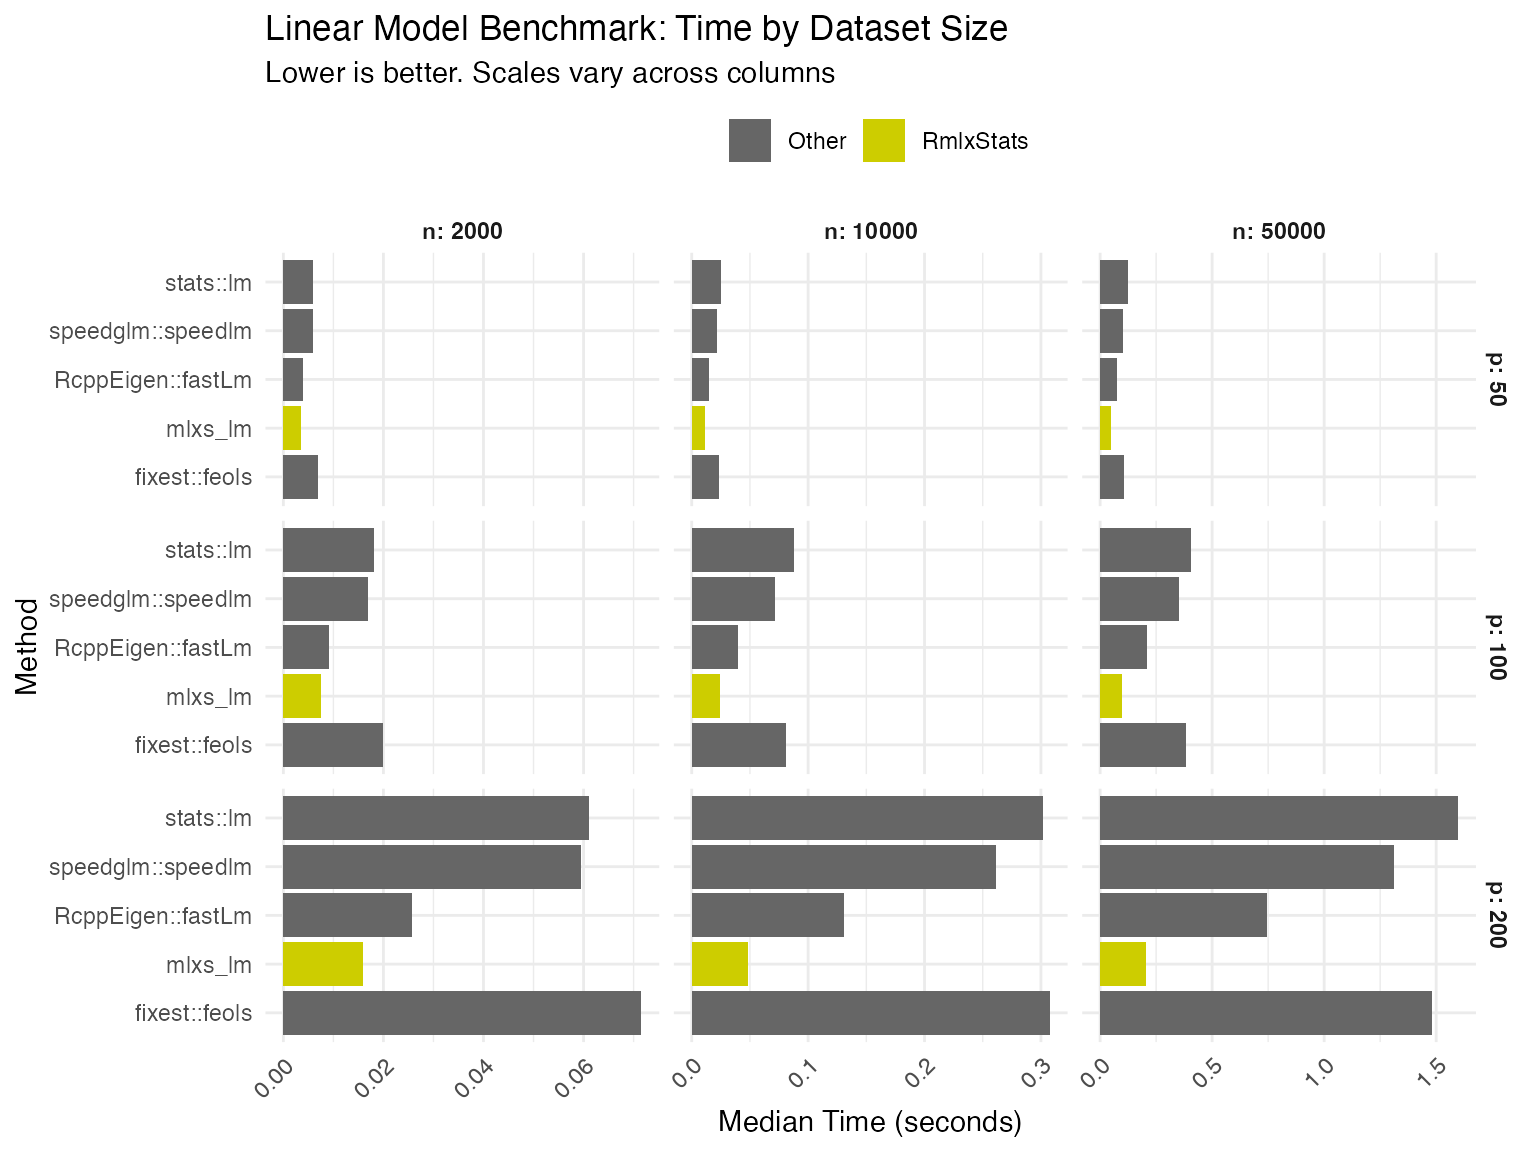
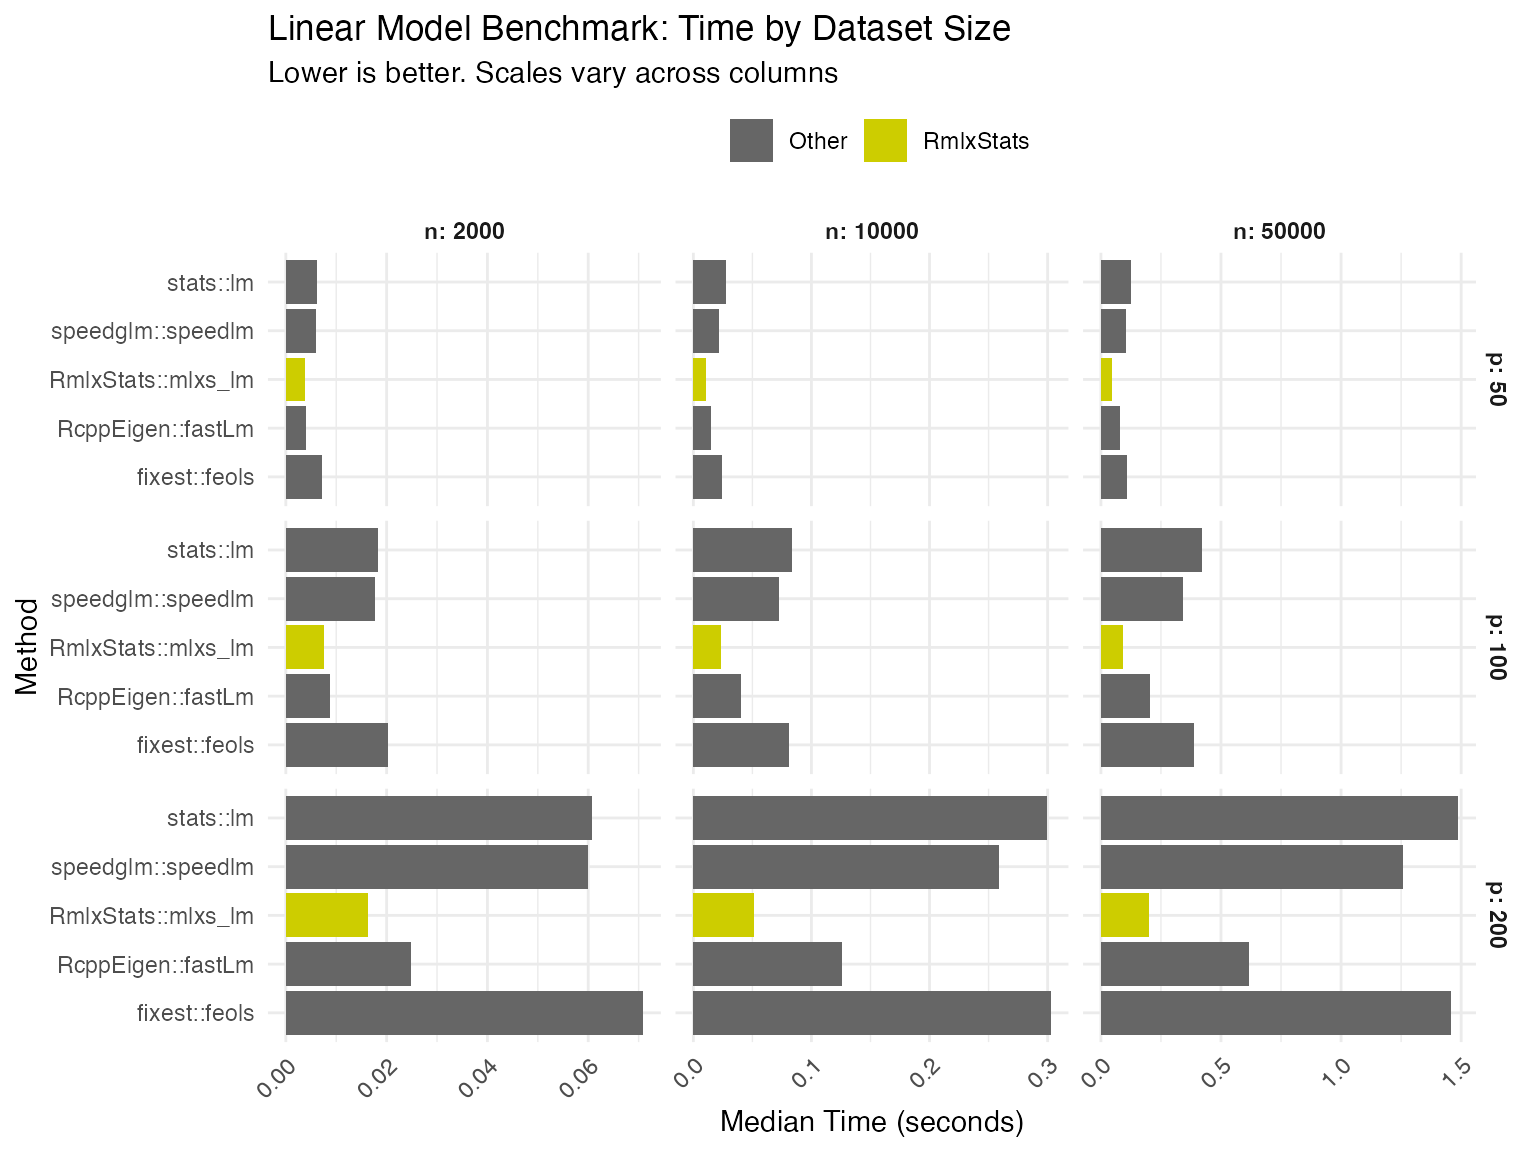
Built site for RmlxStats@0.1.0:

diff --git a/articles/benchmarks.html b/articles/benchmarks.html
@@ -124,7 +124,7 @@ predictors (<code>p</code>).</p>
 <span></span>
 <span>  <span class="va">bm</span> <span class="op">&lt;-</span> <span class="fu">mark</span><span class="op">(</span></span>
 <span>    <span class="st">"stats::lm"</span> <span class="op">=</span> <span class="fu"><a href="https://rdrr.io/r/stats/lm.html" class="external-link">lm</a></span><span class="op">(</span><span class="va">lm_formula</span>, data <span class="op">=</span> <span class="va">subset_data</span><span class="op">)</span>,</span>
-<span>    mlxs_lm <span class="op">=</span> <span class="op">{</span></span>
+<span>    <span class="st">"RmlxStats::mlxs_lm"</span> <span class="op">=</span> <span class="op">{</span></span>
 <span>      <span class="va">l</span> <span class="op">&lt;-</span> <span class="fu"><a href="../reference/mlxs_lm.html">mlxs_lm</a></span><span class="op">(</span><span class="va">lm_formula</span>, data <span class="op">=</span> <span class="va">subset_data</span><span class="op">)</span></span>
 <span>      <span class="fu">Rmlx</span><span class="fu">::</span><span class="fu"><a href="https://hughjonesd.github.io/Rmlx/reference/mlx_eval.html" class="external-link">mlx_eval</a></span><span class="op">(</span><span class="va">l</span><span class="op">$</span><span class="va">coefficients</span><span class="op">)</span></span>
 <span>    <span class="op">}</span>,</span>
@@ -162,7 +162,7 @@ predictors (<code>p</code>).</p>
 <span>    <span class="st">"stats::glm"</span> <span class="op">=</span> <span class="fu"><a href="https://rdrr.io/r/stats/glm.html" class="external-link">glm</a></span><span class="op">(</span><span class="va">glm_formula</span>, family <span class="op">=</span> <span class="fu"><a href="https://rdrr.io/r/stats/family.html" class="external-link">binomial</a></span><span class="op">(</span><span class="op">)</span>,</span>
 <span>                             data <span class="op">=</span> <span class="va">subset_data</span>,</span>
 <span>                             control <span class="op">=</span> <span class="fu"><a href="https://rdrr.io/r/base/list.html" class="external-link">list</a></span><span class="op">(</span>maxit <span class="op">=</span> <span class="fl">50</span><span class="op">)</span><span class="op">)</span>,</span>
-<span>    mlxs_glm <span class="op">=</span> <span class="op">{</span></span>
+<span>    <span class="st">"RmlxStats::mlxs_glm"</span> <span class="op">=</span> <span class="op">{</span></span>
 <span>      <span class="va">g</span> <span class="op">&lt;-</span> <span class="fu"><a href="../reference/mlxs_glm.html">mlxs_glm</a></span><span class="op">(</span><span class="va">glm_formula</span>, family <span class="op">=</span> <span class="fu"><a href="../reference/mlxs_binomial.html">mlxs_binomial</a></span><span class="op">(</span><span class="op">)</span>,</span>
 <span>                        data <span class="op">=</span> <span class="va">subset_data</span>,</span>
 <span>                        control <span class="op">=</span> <span class="fu"><a href="https://rdrr.io/r/base/list.html" class="external-link">list</a></span><span class="op">(</span>maxit <span class="op">=</span> <span class="fl">50</span>, epsilon <span class="op">=</span> <span class="fl">1e-6</span><span class="op">)</span><span class="op">)</span></span>
@@ -254,159 +254,141 @@ due to computational cost.</p>
 <p>We compare RmlxStats functions both against base R, and against the
 fastest alternative tested. Numbers show
 <code>RmlxStats time/alternative time</code>.</p>
-<table class="table">
-<caption>RmlxStats time vs Base R (%). Below 100% → RmlxStats is
-faster</caption>
-<colgroup>
-<col width="14%">
-<col width="8%">
-<col width="9%">
-<col width="9%">
-<col width="9%">
-<col width="10%">
-<col width="10%">
-<col width="9%">
-<col width="10%">
-<col width="10%">
-</colgroup>
-<thead><tr class="header">
-<th align="left"></th>
-<th align="right">n=2000, p=50</th>
-<th align="right">n=10000, p=50</th>
-<th align="right">n=50000, p=50</th>
-<th align="right">n=2000, p=100</th>
-<th align="right">n=10000, p=100</th>
-<th align="right">n=50000, p=100</th>
-<th align="right">n=2000, p=200</th>
-<th align="right">n=10000, p=200</th>
-<th align="right">n=50000, p=200</th>
+<table class="table huxtable" data-quarto-disable-processing="true" style="margin-left: auto; margin-right: auto;" id="tab:summary-tables">
+<caption style="caption-side: top; text-align: center;">RmlxStats time vs base R (%). Below 100% → RmlxStats is faster</caption>
+<col>
+<col>
+<col>
+<col>
+<col>
+<col>
+<col>
+<col>
+<col>
+<thead><tr>
+<th class="huxtable-cell huxtable-header" style="text-align: right;  border-style: solid solid solid solid; border-width: 0pt 0pt 0pt 0pt;         font-size: 11pt;">n=2000, p=50</th>
+<th class="huxtable-cell huxtable-header" style="text-align: right;  border-style: solid solid solid solid; border-width: 0pt 0pt 0pt 0pt;         font-size: 11pt;">n=10000, p=50</th>
+<th class="huxtable-cell huxtable-header" style="text-align: right;  border-style: solid solid solid solid; border-width: 0pt 0pt 0pt 0pt;         font-size: 11pt;">n=50000, p=50</th>
+<th class="huxtable-cell huxtable-header" style="text-align: right;  border-style: solid solid solid solid; border-width: 0pt 0pt 0pt 0pt;         font-size: 11pt;">n=2000, p=100</th>
+<th class="huxtable-cell huxtable-header" style="text-align: right;  border-style: solid solid solid solid; border-width: 0pt 0pt 0pt 0pt;         font-size: 11pt;">n=10000, p=100</th>
+<th class="huxtable-cell huxtable-header" style="text-align: right;  border-style: solid solid solid solid; border-width: 0pt 0pt 0pt 0pt;         font-size: 11pt;">n=50000, p=100</th>
+<th class="huxtable-cell huxtable-header" style="text-align: right;  border-style: solid solid solid solid; border-width: 0pt 0pt 0pt 0pt;         font-size: 11pt;">n=2000, p=200</th>
+<th class="huxtable-cell huxtable-header" style="text-align: right;  border-style: solid solid solid solid; border-width: 0pt 0pt 0pt 0pt;         font-size: 11pt;">n=10000, p=200</th>
+<th class="huxtable-cell huxtable-header" style="text-align: right;  border-style: solid solid solid solid; border-width: 0pt 0pt 0pt 0pt;         font-size: 11pt;">n=50000, p=200</th>
 </tr></thead>
 <tbody>
-<tr class="odd">
-<td align="left">Linear Model</td>
-<td align="right">59.8</td>
-<td align="right">45.0</td>
-<td align="right">37.3</td>
-<td align="right">41.1</td>
-<td align="right">27.3</td>
-<td align="right">24.3</td>
-<td align="right">26.0</td>
-<td align="right">15.9</td>
-<td align="right">12.8</td>
+<tr>
+<td class="huxtable-cell" style="text-align: right;  border-style: solid solid solid solid; border-width: 0pt 0pt 0pt 0pt;         font-size: 11pt;">61.2</td>
+<td class="huxtable-cell" style="text-align: right;  border-style: solid solid solid solid; border-width: 0pt 0pt 0pt 0pt;         font-size: 11pt;">39.5</td>
+<td class="huxtable-cell" style="text-align: right;  border-style: solid solid solid solid; border-width: 0pt 0pt 0pt 0pt;         font-size: 11pt;">37.3</td>
+<td class="huxtable-cell" style="text-align: right;  border-style: solid solid solid solid; border-width: 0pt 0pt 0pt 0pt;         font-size: 11pt;">41.1</td>
+<td class="huxtable-cell" style="text-align: right;  border-style: solid solid solid solid; border-width: 0pt 0pt 0pt 0pt;         font-size: 11pt;">27.8</td>
+<td class="huxtable-cell" style="text-align: right;  border-style: solid solid solid solid; border-width: 0pt 0pt 0pt 0pt;         font-size: 11pt;">22.0</td>
+<td class="huxtable-cell" style="text-align: right;  border-style: solid solid solid solid; border-width: 0pt 0pt 0pt 0pt;         font-size: 11pt;">26.8</td>
+<td class="huxtable-cell" style="text-align: right;  border-style: solid solid solid solid; border-width: 0pt 0pt 0pt 0pt;         font-size: 11pt;">17.1</td>
+<td class="huxtable-cell" style="text-align: right;  border-style: solid solid solid solid; border-width: 0pt 0pt 0pt 0pt;         font-size: 11pt;">13.6</td>
 </tr>
-<tr class="even">
-<td align="left">Logistic Regression</td>
-<td align="right">92.0</td>
-<td align="right">39.4</td>
-<td align="right">24.9</td>
-<td align="right">41.2</td>
-<td align="right">19.5</td>
-<td align="right">12.8</td>
-<td align="right">18.8</td>
-<td align="right">12.1</td>
-<td align="right">10.1</td>
+<tr>
+<td class="huxtable-cell" style="text-align: right;  border-style: solid solid solid solid; border-width: 0pt 0pt 0pt 0pt;         font-size: 11pt;">90.0</td>
+<td class="huxtable-cell" style="text-align: right;  border-style: solid solid solid solid; border-width: 0pt 0pt 0pt 0pt;         font-size: 11pt;">35.2</td>
+<td class="huxtable-cell" style="text-align: right;  border-style: solid solid solid solid; border-width: 0pt 0pt 0pt 0pt;         font-size: 11pt;">23.0</td>
+<td class="huxtable-cell" style="text-align: right;  border-style: solid solid solid solid; border-width: 0pt 0pt 0pt 0pt;         font-size: 11pt;">40.9</td>
+<td class="huxtable-cell" style="text-align: right;  border-style: solid solid solid solid; border-width: 0pt 0pt 0pt 0pt;         font-size: 11pt;">20.6</td>
+<td class="huxtable-cell" style="text-align: right;  border-style: solid solid solid solid; border-width: 0pt 0pt 0pt 0pt;         font-size: 11pt;">13.8</td>
+<td class="huxtable-cell" style="text-align: right;  border-style: solid solid solid solid; border-width: 0pt 0pt 0pt 0pt;         font-size: 11pt;">19.5</td>
+<td class="huxtable-cell" style="text-align: right;  border-style: solid solid solid solid; border-width: 0pt 0pt 0pt 0pt;         font-size: 11pt;">12.0</td>
+<td class="huxtable-cell" style="text-align: right;  border-style: solid solid solid solid; border-width: 0pt 0pt 0pt 0pt;         font-size: 11pt;">9.5</td>
 </tr>
-<tr class="odd">
-<td align="left">Bootstrap (Case)</td>
-<td align="right">26.3</td>
-<td align="right">21.8</td>
-<td align="right"></td>
-<td align="right">19.4</td>
-<td align="right">16.3</td>
-<td align="right"></td>
-<td align="right"></td>
-<td align="right"></td>
-<td align="right"></td>
+<tr>
+<td class="huxtable-cell" style="text-align: right;  border-style: solid solid solid solid; border-width: 0pt 0pt 0pt 0pt;         font-size: 11pt;">26.1</td>
+<td class="huxtable-cell" style="text-align: right;  border-style: solid solid solid solid; border-width: 0pt 0pt 0pt 0pt;         font-size: 11pt;">21.8</td>
+<td class="huxtable-cell" style="text-align: right;  border-style: solid solid solid solid; border-width: 0pt 0pt 0pt 0pt;         font-size: 11pt;">  </td>
+<td class="huxtable-cell" style="text-align: right;  border-style: solid solid solid solid; border-width: 0pt 0pt 0pt 0pt;         font-size: 11pt;">19.5</td>
+<td class="huxtable-cell" style="text-align: right;  border-style: solid solid solid solid; border-width: 0pt 0pt 0pt 0pt;         font-size: 11pt;">16.8</td>
+<td class="huxtable-cell" style="text-align: right;  border-style: solid solid solid solid; border-width: 0pt 0pt 0pt 0pt;         font-size: 11pt;">  </td>
+<td class="huxtable-cell" style="text-align: right;  border-style: solid solid solid solid; border-width: 0pt 0pt 0pt 0pt;         font-size: 11pt;">  </td>
+<td class="huxtable-cell" style="text-align: right;  border-style: solid solid solid solid; border-width: 0pt 0pt 0pt 0pt;         font-size: 11pt;">  </td>
+<td class="huxtable-cell" style="text-align: right;  border-style: solid solid solid solid; border-width: 0pt 0pt 0pt 0pt;         font-size: 11pt;">  </td>
 </tr>
-<tr class="even">
-<td align="left">Bootstrap (Residual)</td>
-<td align="right">78.0</td>
-<td align="right">41.1</td>
-<td align="right"></td>
-<td align="right">28.0</td>
-<td align="right">15.9</td>
-<td align="right"></td>
-<td align="right"></td>
-<td align="right"></td>
-<td align="right"></td>
+<tr>
+<td class="huxtable-cell" style="text-align: right;  border-style: solid solid solid solid; border-width: 0pt 0pt 0pt 0pt;         font-size: 11pt;">77.2</td>
+<td class="huxtable-cell" style="text-align: right;  border-style: solid solid solid solid; border-width: 0pt 0pt 0pt 0pt;         font-size: 11pt;">46.3</td>
+<td class="huxtable-cell" style="text-align: right;  border-style: solid solid solid solid; border-width: 0pt 0pt 0pt 0pt;         font-size: 11pt;">  </td>
+<td class="huxtable-cell" style="text-align: right;  border-style: solid solid solid solid; border-width: 0pt 0pt 0pt 0pt;         font-size: 11pt;">28.7</td>
+<td class="huxtable-cell" style="text-align: right;  border-style: solid solid solid solid; border-width: 0pt 0pt 0pt 0pt;         font-size: 11pt;">17.0</td>
+<td class="huxtable-cell" style="text-align: right;  border-style: solid solid solid solid; border-width: 0pt 0pt 0pt 0pt;         font-size: 11pt;">  </td>
+<td class="huxtable-cell" style="text-align: right;  border-style: solid solid solid solid; border-width: 0pt 0pt 0pt 0pt;         font-size: 11pt;">  </td>
+<td class="huxtable-cell" style="text-align: right;  border-style: solid solid solid solid; border-width: 0pt 0pt 0pt 0pt;         font-size: 11pt;">  </td>
+<td class="huxtable-cell" style="text-align: right;  border-style: solid solid solid solid; border-width: 0pt 0pt 0pt 0pt;         font-size: 11pt;">  </td>
 </tr>
 </tbody>
 </table>
-<table class="table">
-<caption>RmlxStats time vs Fastest Alternative (%). Below 100% →
-RmlxStats is faster</caption>
-<colgroup>
-<col width="14%">
-<col width="8%">
-<col width="9%">
-<col width="9%">
-<col width="9%">
-<col width="10%">
-<col width="10%">
-<col width="9%">
-<col width="10%">
-<col width="10%">
-</colgroup>
-<thead><tr class="header">
-<th align="left"></th>
-<th align="right">n=2000, p=50</th>
-<th align="right">n=10000, p=50</th>
-<th align="right">n=50000, p=50</th>
-<th align="right">n=2000, p=100</th>
-<th align="right">n=10000, p=100</th>
-<th align="right">n=50000, p=100</th>
-<th align="right">n=2000, p=200</th>
-<th align="right">n=10000, p=200</th>
-<th align="right">n=50000, p=200</th>
+<table class="table huxtable" data-quarto-disable-processing="true" style="margin-left: auto; margin-right: auto;" id="tab:summary-tables">
+<caption style="caption-side: top; text-align: center;">RmlxStats time vs fastest alternative (%). Below 100% → RmlxStats is faster</caption>
+<col>
+<col>
+<col>
+<col>
+<col>
+<col>
+<col>
+<col>
+<col>
+<thead><tr>
+<th class="huxtable-cell huxtable-header" style="text-align: right;  border-style: solid solid solid solid; border-width: 0pt 0pt 0pt 0pt;         font-size: 11pt;">n=2000, p=50</th>
+<th class="huxtable-cell huxtable-header" style="text-align: right;  border-style: solid solid solid solid; border-width: 0pt 0pt 0pt 0pt;         font-size: 11pt;">n=10000, p=50</th>
+<th class="huxtable-cell huxtable-header" style="text-align: right;  border-style: solid solid solid solid; border-width: 0pt 0pt 0pt 0pt;         font-size: 11pt;">n=50000, p=50</th>
+<th class="huxtable-cell huxtable-header" style="text-align: right;  border-style: solid solid solid solid; border-width: 0pt 0pt 0pt 0pt;         font-size: 11pt;">n=2000, p=100</th>
+<th class="huxtable-cell huxtable-header" style="text-align: right;  border-style: solid solid solid solid; border-width: 0pt 0pt 0pt 0pt;         font-size: 11pt;">n=10000, p=100</th>
+<th class="huxtable-cell huxtable-header" style="text-align: right;  border-style: solid solid solid solid; border-width: 0pt 0pt 0pt 0pt;         font-size: 11pt;">n=50000, p=100</th>
+<th class="huxtable-cell huxtable-header" style="text-align: right;  border-style: solid solid solid solid; border-width: 0pt 0pt 0pt 0pt;         font-size: 11pt;">n=2000, p=200</th>
+<th class="huxtable-cell huxtable-header" style="text-align: right;  border-style: solid solid solid solid; border-width: 0pt 0pt 0pt 0pt;         font-size: 11pt;">n=10000, p=200</th>
+<th class="huxtable-cell huxtable-header" style="text-align: right;  border-style: solid solid solid solid; border-width: 0pt 0pt 0pt 0pt;         font-size: 11pt;">n=50000, p=200</th>
 </tr></thead>
 <tbody>
-<tr class="odd">
-<td align="left">Linear Model</td>
-<td align="right">92.0</td>
-<td align="right">76.3</td>
-<td align="right">61.6</td>
-<td align="right">82.6</td>
-<td align="right">59.9</td>
-<td align="right">47.5</td>
-<td align="right">61.8</td>
-<td align="right">36.7</td>
-<td align="right">27.5</td>
+<tr>
+<td class="huxtable-cell" style="text-align: right;  border-style: solid solid solid solid; border-width: 0pt 0pt 0pt 0pt;         font-size: 11pt;">95.1</td>
+<td class="huxtable-cell" style="text-align: right;  border-style: solid solid solid solid; border-width: 0pt 0pt 0pt 0pt;         font-size: 11pt;">73.3</td>
+<td class="huxtable-cell" style="text-align: right;  border-style: solid solid solid solid; border-width: 0pt 0pt 0pt 0pt;         font-size: 11pt;">59.2</td>
+<td class="huxtable-cell" style="text-align: right;  border-style: solid solid solid solid; border-width: 0pt 0pt 0pt 0pt;         font-size: 11pt;">86.2</td>
+<td class="huxtable-cell" style="text-align: right;  border-style: solid solid solid solid; border-width: 0pt 0pt 0pt 0pt;         font-size: 11pt;">57.7</td>
+<td class="huxtable-cell" style="text-align: right;  border-style: solid solid solid solid; border-width: 0pt 0pt 0pt 0pt;         font-size: 11pt;">45.0</td>
+<td class="huxtable-cell" style="text-align: right;  border-style: solid solid solid solid; border-width: 0pt 0pt 0pt 0pt;         font-size: 11pt;">65.3</td>
+<td class="huxtable-cell" style="text-align: right;  border-style: solid solid solid solid; border-width: 0pt 0pt 0pt 0pt;         font-size: 11pt;">40.9</td>
+<td class="huxtable-cell" style="text-align: right;  border-style: solid solid solid solid; border-width: 0pt 0pt 0pt 0pt;         font-size: 11pt;">32.7</td>
 </tr>
-<tr class="even">
-<td align="left">Logistic Regression</td>
-<td align="right">115.7</td>
-<td align="right">50.0</td>
-<td align="right">32.7</td>
-<td align="right">47.8</td>
-<td align="right">24.0</td>
-<td align="right">16.8</td>
-<td align="right">20.7</td>
-<td align="right">14.7</td>
-<td align="right">12.4</td>
+<tr>
+<td class="huxtable-cell" style="text-align: right;  border-style: solid solid solid solid; border-width: 0pt 0pt 0pt 0pt;         font-size: 11pt;">109.2</td>
+<td class="huxtable-cell" style="text-align: right;  border-style: solid solid solid solid; border-width: 0pt 0pt 0pt 0pt;         font-size: 11pt;">46.0</td>
+<td class="huxtable-cell" style="text-align: right;  border-style: solid solid solid solid; border-width: 0pt 0pt 0pt 0pt;         font-size: 11pt;">29.9</td>
+<td class="huxtable-cell" style="text-align: right;  border-style: solid solid solid solid; border-width: 0pt 0pt 0pt 0pt;         font-size: 11pt;">46.8</td>
+<td class="huxtable-cell" style="text-align: right;  border-style: solid solid solid solid; border-width: 0pt 0pt 0pt 0pt;         font-size: 11pt;">25.3</td>
+<td class="huxtable-cell" style="text-align: right;  border-style: solid solid solid solid; border-width: 0pt 0pt 0pt 0pt;         font-size: 11pt;">17.1</td>
+<td class="huxtable-cell" style="text-align: right;  border-style: solid solid solid solid; border-width: 0pt 0pt 0pt 0pt;         font-size: 11pt;">21.6</td>
+<td class="huxtable-cell" style="text-align: right;  border-style: solid solid solid solid; border-width: 0pt 0pt 0pt 0pt;         font-size: 11pt;">14.5</td>
+<td class="huxtable-cell" style="text-align: right;  border-style: solid solid solid solid; border-width: 0pt 0pt 0pt 0pt;         font-size: 11pt;">11.5</td>
 </tr>
-<tr class="odd">
-<td align="left">Bootstrap (Case)</td>
-<td align="right">26.3</td>
-<td align="right">21.8</td>
-<td align="right"></td>
-<td align="right">19.4</td>
-<td align="right">16.3</td>
-<td align="right"></td>
-<td align="right"></td>
-<td align="right"></td>
-<td align="right"></td>
+<tr>
+<td class="huxtable-cell" style="text-align: right;  border-style: solid solid solid solid; border-width: 0pt 0pt 0pt 0pt;         font-size: 11pt;">26.1</td>
+<td class="huxtable-cell" style="text-align: right;  border-style: solid solid solid solid; border-width: 0pt 0pt 0pt 0pt;         font-size: 11pt;">21.8</td>
+<td class="huxtable-cell" style="text-align: right;  border-style: solid solid solid solid; border-width: 0pt 0pt 0pt 0pt;         font-size: 11pt;">  </td>
+<td class="huxtable-cell" style="text-align: right;  border-style: solid solid solid solid; border-width: 0pt 0pt 0pt 0pt;         font-size: 11pt;">19.5</td>
+<td class="huxtable-cell" style="text-align: right;  border-style: solid solid solid solid; border-width: 0pt 0pt 0pt 0pt;         font-size: 11pt;">16.8</td>
+<td class="huxtable-cell" style="text-align: right;  border-style: solid solid solid solid; border-width: 0pt 0pt 0pt 0pt;         font-size: 11pt;">  </td>
+<td class="huxtable-cell" style="text-align: right;  border-style: solid solid solid solid; border-width: 0pt 0pt 0pt 0pt;         font-size: 11pt;">  </td>
+<td class="huxtable-cell" style="text-align: right;  border-style: solid solid solid solid; border-width: 0pt 0pt 0pt 0pt;         font-size: 11pt;">  </td>
+<td class="huxtable-cell" style="text-align: right;  border-style: solid solid solid solid; border-width: 0pt 0pt 0pt 0pt;         font-size: 11pt;">  </td>
 </tr>
-<tr class="even">
-<td align="left">Bootstrap (Residual)</td>
-<td align="right">78.0</td>
-<td align="right">41.1</td>
-<td align="right"></td>
-<td align="right">28.0</td>
-<td align="right">15.9</td>
-<td align="right"></td>
-<td align="right"></td>
-<td align="right"></td>
-<td align="right"></td>
+<tr>
+<td class="huxtable-cell" style="text-align: right;  border-style: solid solid solid solid; border-width: 0pt 0pt 0pt 0pt;         font-size: 11pt;">77.2</td>
+<td class="huxtable-cell" style="text-align: right;  border-style: solid solid solid solid; border-width: 0pt 0pt 0pt 0pt;         font-size: 11pt;">46.3</td>
+<td class="huxtable-cell" style="text-align: right;  border-style: solid solid solid solid; border-width: 0pt 0pt 0pt 0pt;         font-size: 11pt;">  </td>
+<td class="huxtable-cell" style="text-align: right;  border-style: solid solid solid solid; border-width: 0pt 0pt 0pt 0pt;         font-size: 11pt;">28.7</td>
+<td class="huxtable-cell" style="text-align: right;  border-style: solid solid solid solid; border-width: 0pt 0pt 0pt 0pt;         font-size: 11pt;">17.0</td>
+<td class="huxtable-cell" style="text-align: right;  border-style: solid solid solid solid; border-width: 0pt 0pt 0pt 0pt;         font-size: 11pt;">  </td>
+<td class="huxtable-cell" style="text-align: right;  border-style: solid solid solid solid; border-width: 0pt 0pt 0pt 0pt;         font-size: 11pt;">  </td>
+<td class="huxtable-cell" style="text-align: right;  border-style: solid solid solid solid; border-width: 0pt 0pt 0pt 0pt;         font-size: 11pt;">  </td>
+<td class="huxtable-cell" style="text-align: right;  border-style: solid solid solid solid; border-width: 0pt 0pt 0pt 0pt;         font-size: 11pt;">  </td>
 </tr>
 </tbody>
 </table>
